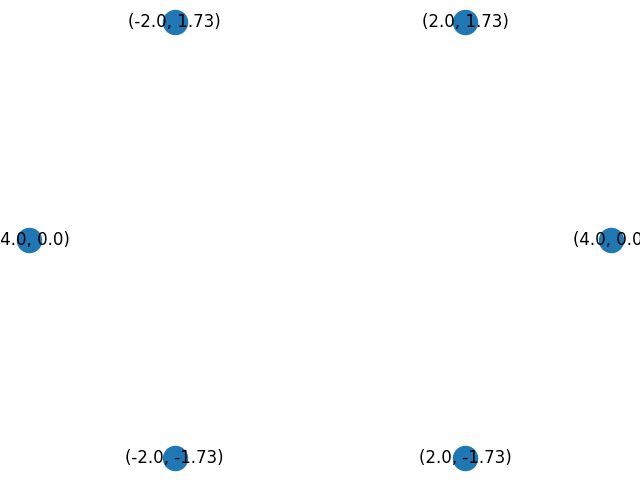
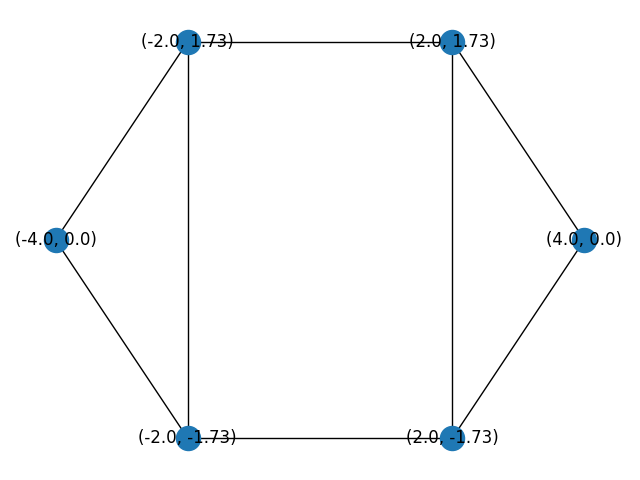
robot able to move from A to B using SI and able to check its connectivity on call

diff --git a/utilities/6si_go_to_pose.py b/utilities/6si_go_to_pose.py
@@ -2,6 +2,7 @@
 import networkx as nx
 import numpy as np
 import matplotlib.pyplot as plt
+from math import dist
 
 # Initial_pose_of_robots = 
 np_Initial_pose_of_robots = np.array([[4,0,2,1.73,-2,1.73,-4,0,-2,-1.73,2,-1.73]])
@@ -38,11 +39,28 @@ def si_model():
     ax.set_ylim(ymin=-4)
     plt.show()
 
-si_model()
-G = nx.Graph()
-arr = np.reshape(np_Initial_pose_of_robots, (6,2))
-G.add_nodes_from(list(map(tuple, arr)))
-nx.draw(G, pos=nx.circular_layout(G), with_labels = True)
-plt.savefig('6SI_robots.png')
-print(G)
-print(list(map(tuple, arr)))
+def update_graph(current_pose_of_robots):
+    # reinitialize the graph 
+    Rc=4
+    G = nx.Graph()
+    arr = np.reshape(current_pose_of_robots, (6,2))
+    current_node_poses = list(map(tuple, arr))
+    print(current_node_poses)
+    G.add_nodes_from(current_node_poses)
+    for i in current_node_poses:
+        for j in current_node_poses:
+            if(dist(i,j)<=Rc and i!=j):
+                G.add_edge(i,j)
+
+        print("i am here")
+        print(i)
+    # G.add_edge()
+    # G.add_edge((i,j)for (i,j) in (current_pose_i, current_pose_j): if(dist(current_pose_i,current_pose_j)<1))
+    nx.draw(G, pos=nx.circular_layout(G), with_labels = True)
+    plt.savefig('6SI_robots.png')
+    print(G)
+    print(list(map(tuple, arr)))
+update_graph(previous_pose_of_robots)
+# si_model()
+
+# (i) for i in my_list if i=="two"]
